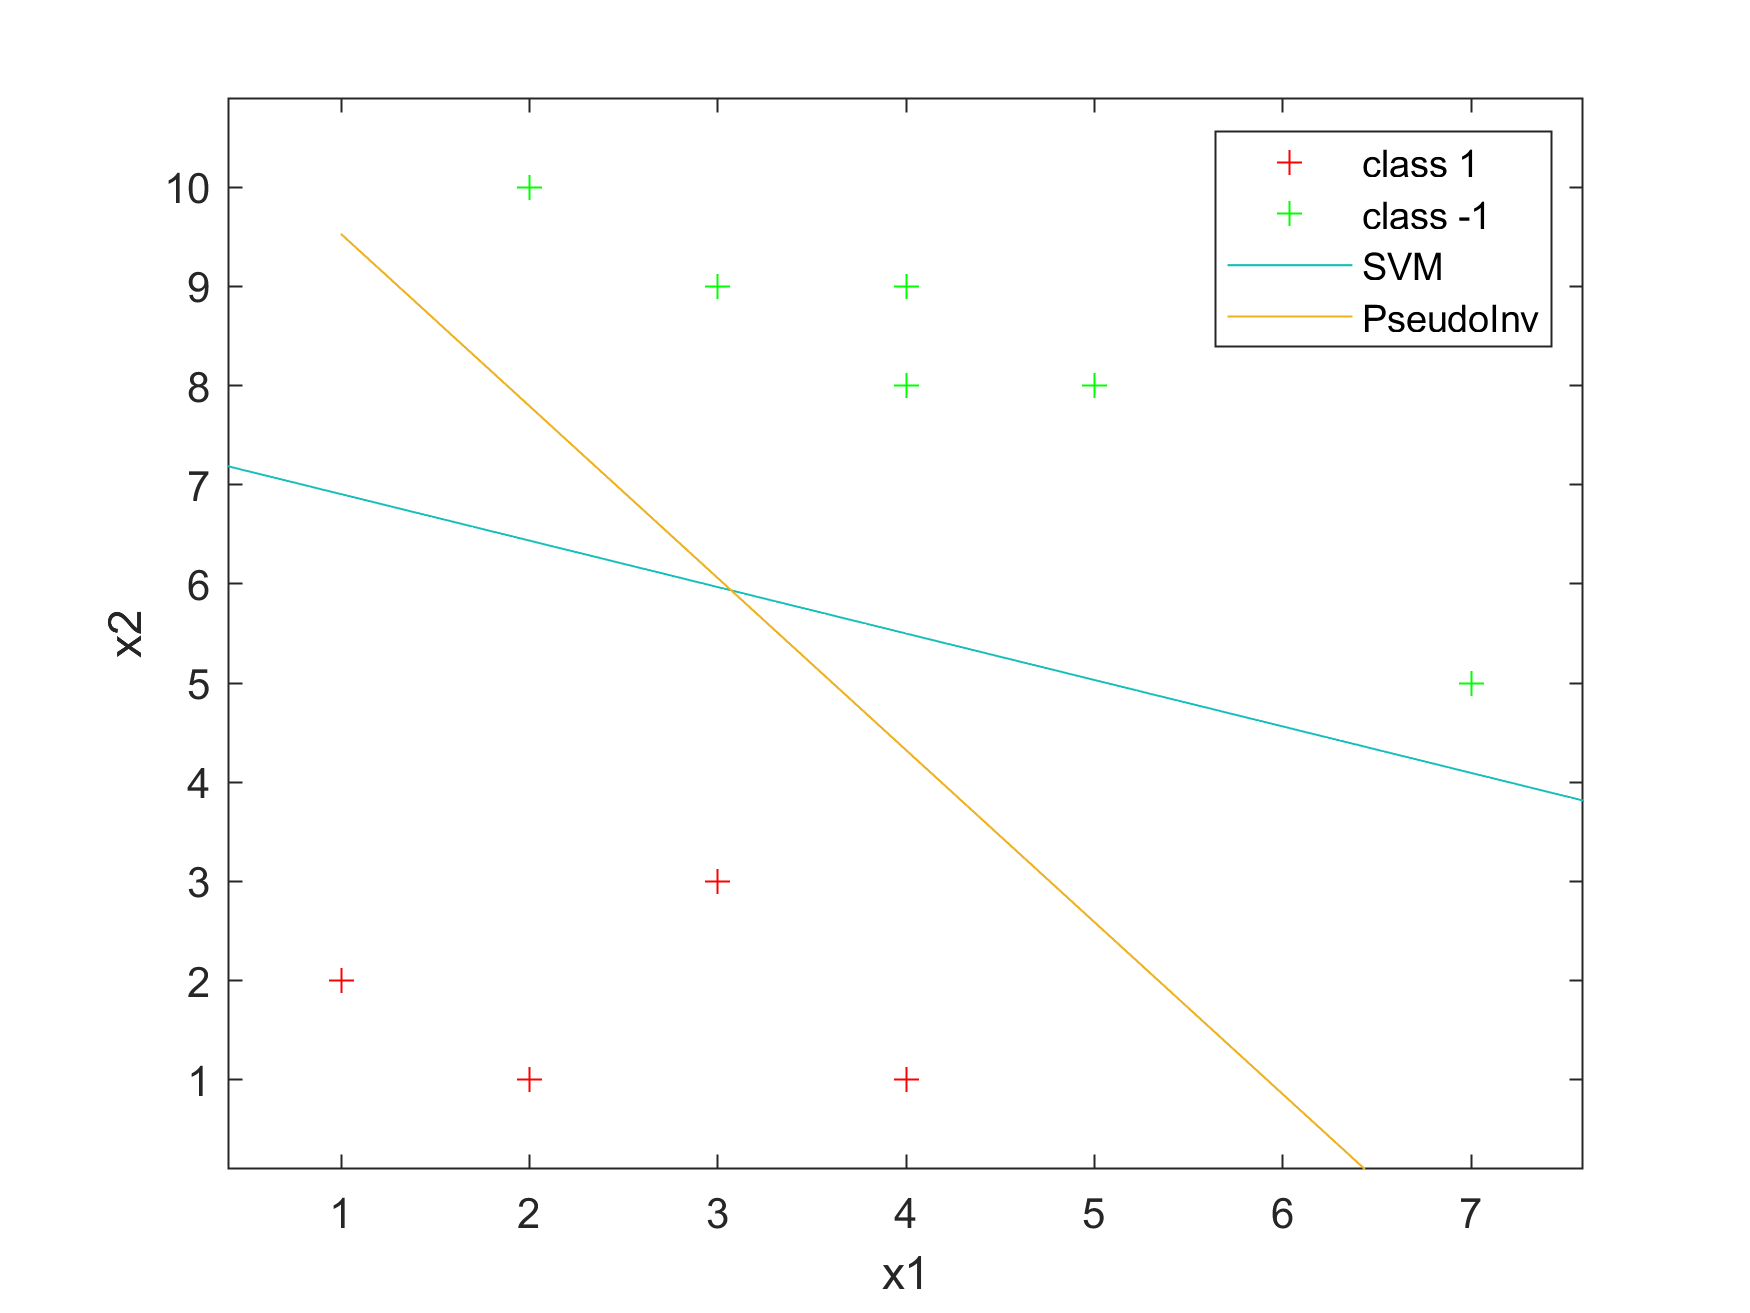
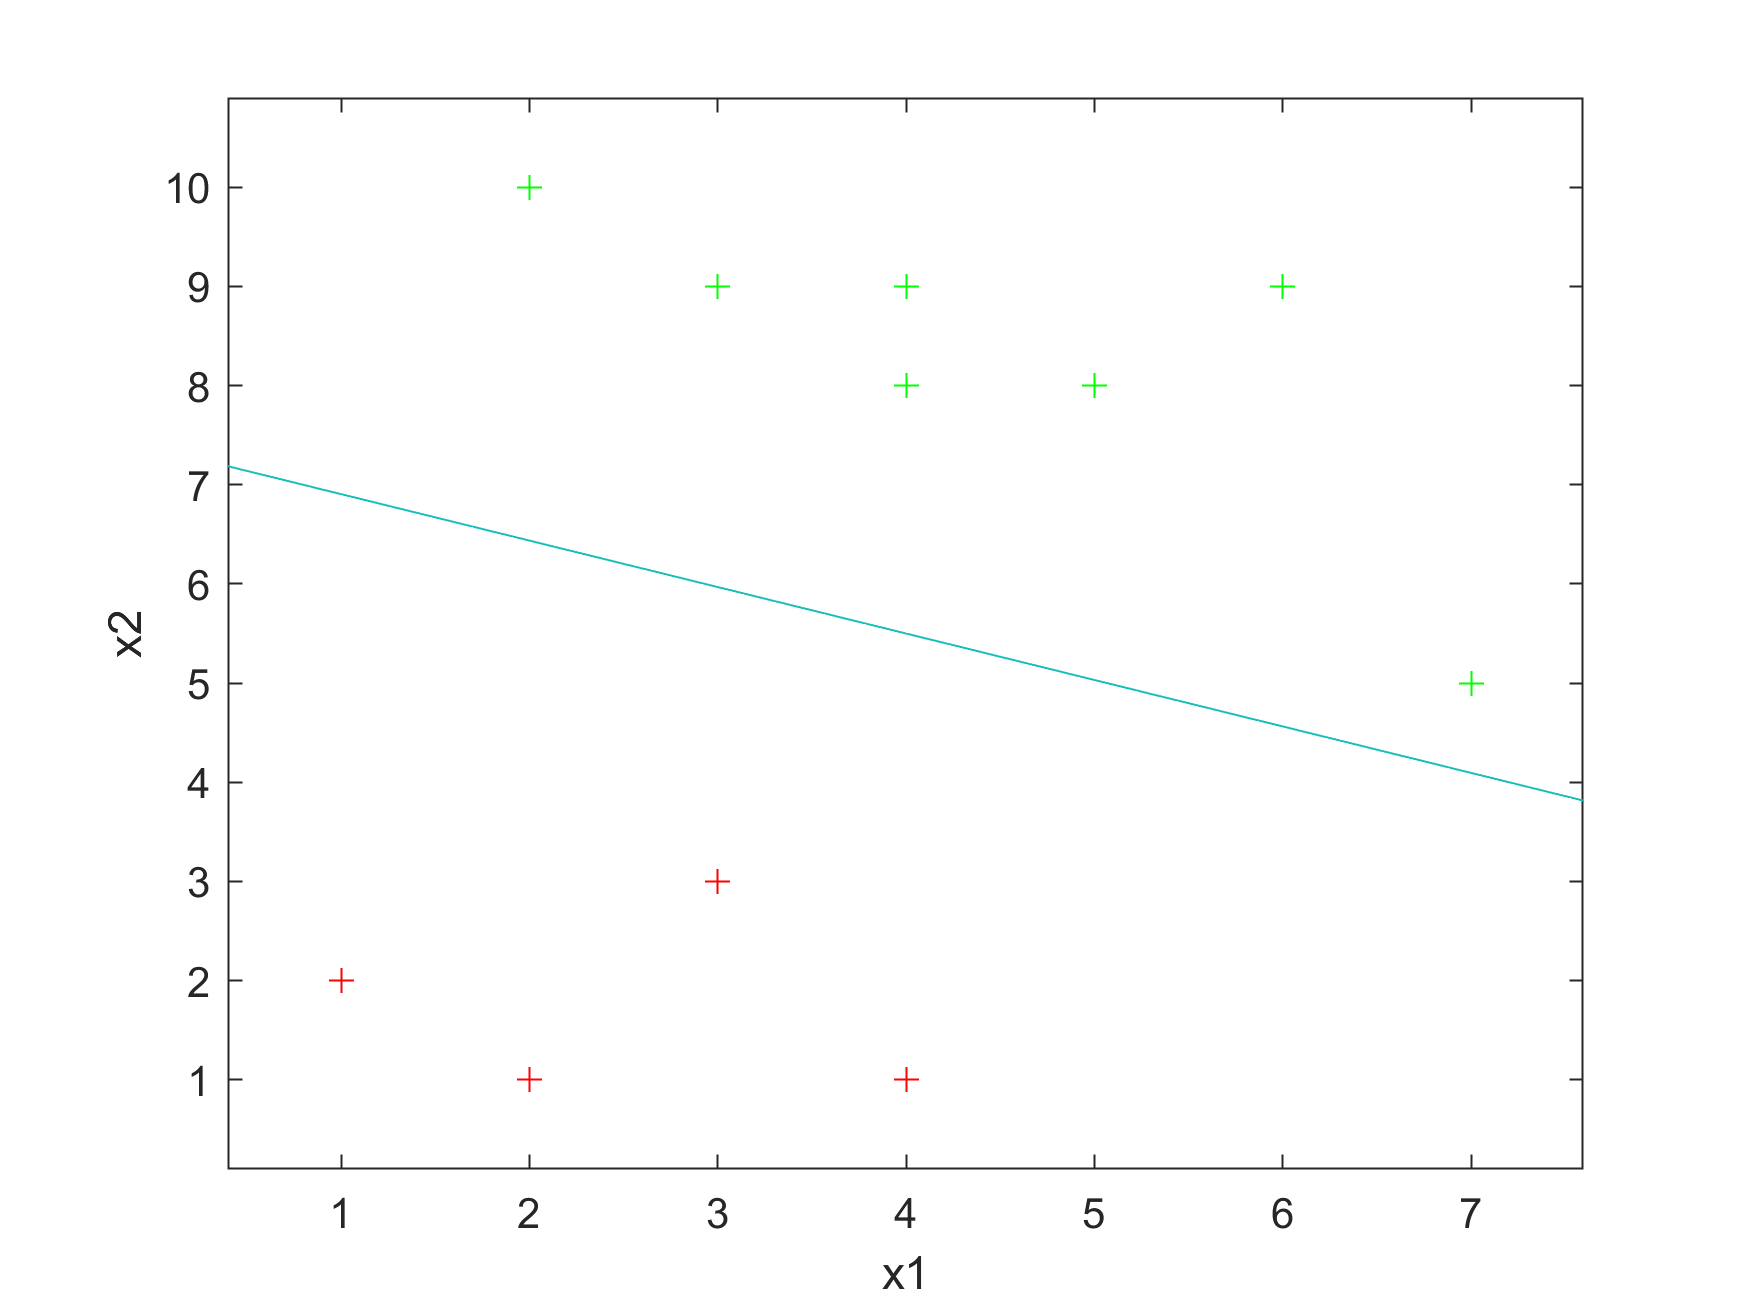
Refactor simple check, added comparison with PseudoInv & AlphaLMS

Changed region(s): [[0.7714, 0.0937, 0.8949, 0.281], [0.7097, 0.1874, 0.7406, 0.2186], [0.7097, 0.0937, 0.7406, 0.1249]]

diff --git a/code/octave/AlphaLMS_wold.m b/code/octave/AlphaLMS_wold.m
@@ -1,0 +1,51 @@
+% the following function uses the Alpha LMS algorithm from slide 96 to calculate a weight matrix
+% input parameters:
+% x = the input values in the form of column vectors
+% d = the corresponding class values (a row vector)
+% alpha = value for changing the weight matrix over the iteration
+% delta = value that determines when calculation is finished
+% return values:
+% w = the calculated weight matrix
+% error_save = the vector with the total errors over the iterations
+% iteration = the number of total iterations the algorithm needed to finish
+function [w, error_save, iteration] = AlphaLMS_wold(x, d, alpha, delta)
+    % get rows and columns of inputs x (e.g. 16, 2)
+    [M, K] = size(x);
+    % random weight vector with 1 row and M+1 (+1  = threshold/theta) columns
+    w = rand(M+1,1);
+    % add threshold value 1 to input vectors
+    x(M+1,:) = 1;
+    % initialize vector for saving the total error values over the iterations
+    error_save = [];
+    % set iteration variable to zero
+    iteration = 0;
+    % while not finished
+    while true
+        % remember weight matrix of iteration before this one
+        w_old = w;
+        % set total error to zero (since this is the start of a new iteration)
+        total_error = 0;
+        % loop over training set
+        for i=1:K
+            % get the vector column i
+            x_i = x(:, i);
+            % calculate the error
+            err = (w' * x_i) - d(:,i);
+            % calculate the new weight matrix
+            w = w - (alpha * (x_i / (norm(x_i))^2) * err);
+            % add the error of this loop over the training set to the total error
+            total_error = total_error + err^2;
+        end
+        % display current total error and current iteration
+        disp("Total error: "), disp(total_error), disp(" Iteration: "), disp(iteration);
+        % check if the normalized difference between the old and the new weight matrix is smaller than delta
+        % if yes, we are finished -> abort while true loop
+        if(norm((w_old - w)) < delta);
+            break;
+        end
+        % add total error of current iteration to error_save vector (as new row)
+        error_save = [error_save, total_error];
+        % increment iterations by one
+        iteration = iteration + 1;
+    end
+    

diff --git a/code/octave/linear_comp_small.m b/code/octave/linear_comp_small.m
@@ -1,21 +1,9 @@
 % input values
-% note: x input is transferred internally into column vectors i.e. x1 = [1; 1; 2] (1 for bias)
-x = [
-    1,2;
-    2,1;
-    3,3;
-    4,1;
-    4,9;
-    2,10;
-    3,9;
-    4,8;
-    5,8;
-    6,9;
-    7,5;
-    6,2;
-];
-% class values
-d = [1;1;1;1;1;-1;-1;-1;-1;-1;-1;-1];
+x = [1,2,3,4,4,2,3,4,5,6,7,6;2,1,3,1,9,10,9,8,8,9,5,2];
+x = x'
+% class values (vector with k columns
+d = [1,1,1,1,1,-1,-1,-1,-1,-1,-1,-1];
+d = d'
 % calculate x1 min
 xl=min(x(:,1));
 % calculate x1 max
@@ -25,6 +13,8 @@ yl=min(x(:,2));
 % calculate x2 max
 yu = max(x(:,2));
 [weight, bias] = Hard_Margin_SVM(x, d);
+[w, num_of_misclassifications] = PseudoInv(x, d);
+[w_alpha, E, iter] = AlphaLMS_wold(x', d', 0.05, 1.0e-16);
 set_global_weight(weight);
 set_global_bias(bias);
 % plot x inputs with decision boundary
@@ -38,10 +28,19 @@ ylabel("x2");
 hold on;
 % plot decision boundary
 ContourPlot("NNF_SVM", xl-abs(0.1*(xu-xl)), xu+abs(0.1*(xu-xl)), yl-abs(0.1*(yu-yl)), yu+abs(0.1*(yu-yl)), 100, 1);
+% plot x inputs with decision boundary
+plot([xl, xu], [-(xl*w(1) + w(3))/w(2), -(xu*w(1)+w(3))/w(2)]);
+plot([xl, xu], [-(xl*w_alpha(1) + w_alpha(3))/w_alpha(2), -(xu*w_alpha(1)+w_alpha(3))/w_alpha(2)]);
+% create legend
+h = legend('class 1', 'class -1', 'SVM', 'PseudoInv', 'AlphaLMS');
+% set legend interpreter
+set(h, "interpreter", "tex");
+% set legend location
+legend("location", "northeast");
 % stop holding figure
 hold off
 % print image to file
-print -dpng -r300 svmsimple.png;
+print -dpng -r300 linearcompsmall.png;
 
 
 
